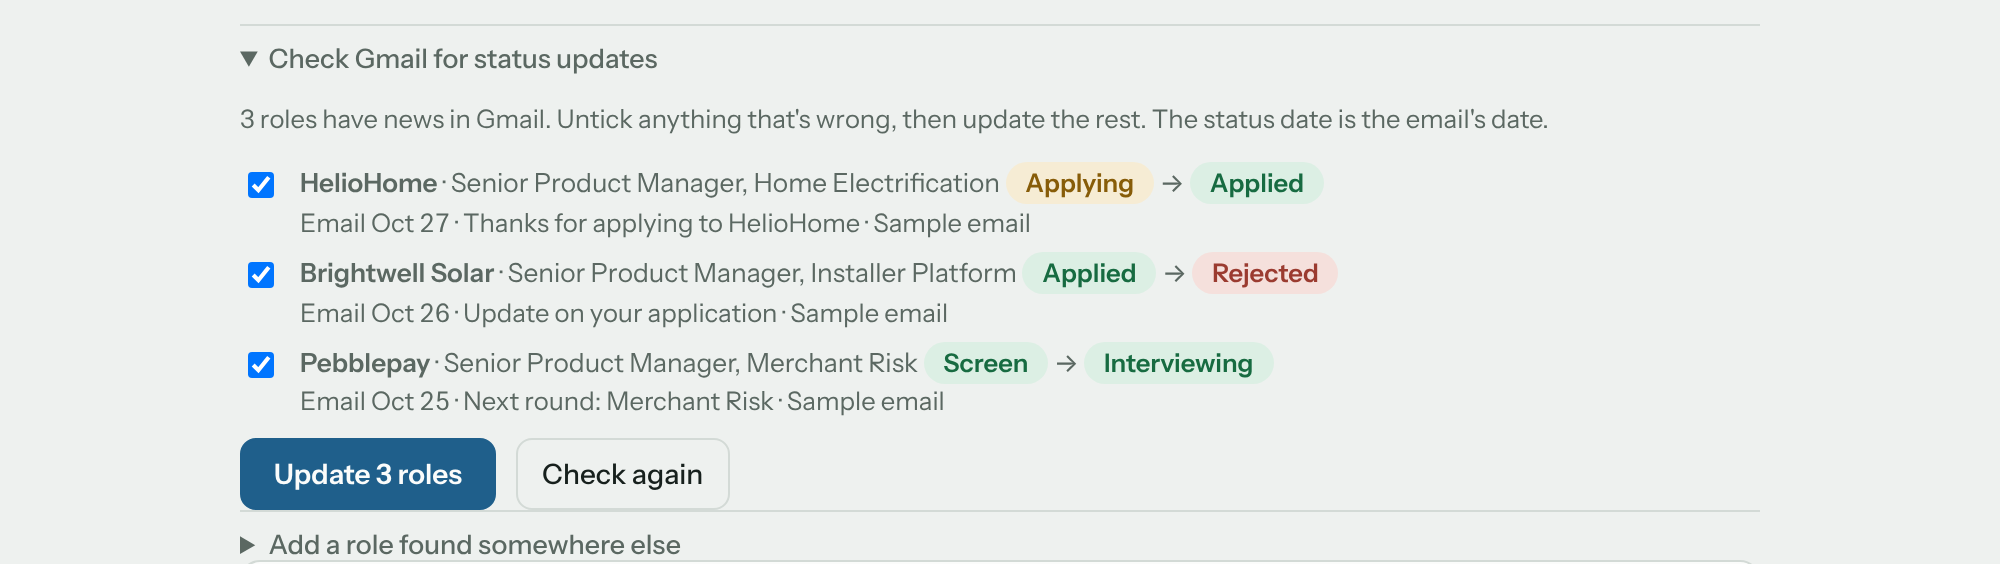
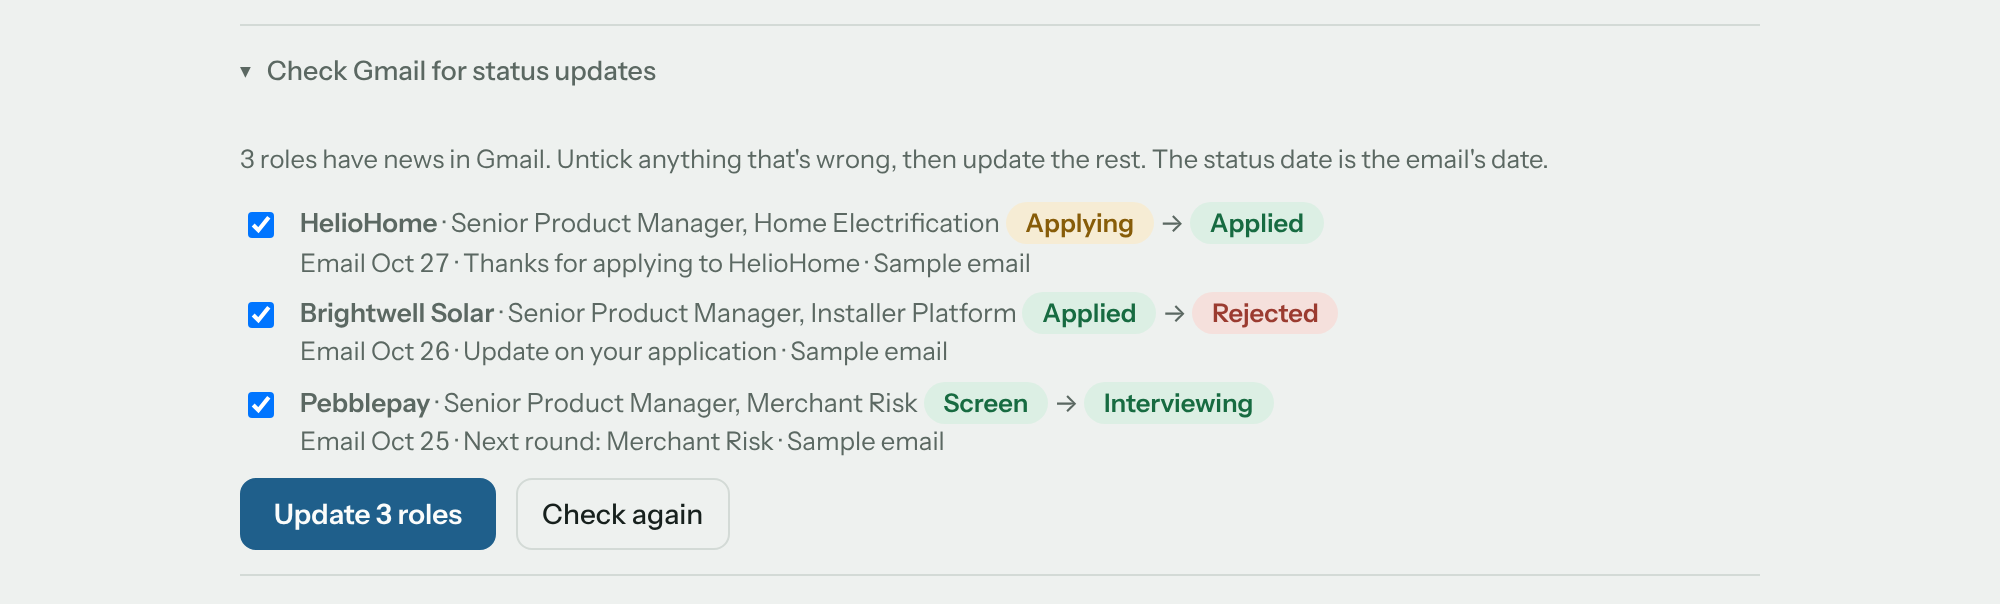
RR-M3.3: UI polish round 2 (folded filters, one accent action, first-run guidance)
Claude-Session: https://claude.ai/code/session_01S2xZTupe2qe2vZrkJ8z2XQ

diff --git a/app/role-radar.html b/app/role-radar.html
@@ -64,6 +64,7 @@ button:focus-visible,input:focus-visible,select:focus-visible,textarea:focus-vis
 .empty{border:1px dashed var(--line);border-radius:10px;padding:22px 18px;color:var(--muted);display:grid;gap:6px}
 .empty strong{color:var(--ink);font-family:var(--f-display);font-weight:500;font-size:1.05rem}
 .empty .btn{justify-self:start}
+.empty.error{border:1px solid var(--bad);background:var(--bad-soft)}
 .sub.stale{color:var(--warn)}
 .row{display:flex;justify-content:space-between;align-items:center;gap:10px;padding:10px 0;border-bottom:1px solid var(--line);min-width:0}
 .row .nm{font-weight:600}
@@ -90,7 +91,6 @@ textarea{min-height:64px;resize:vertical}
 .toast{position:fixed;left:50%;transform:translateX(-50%);bottom:calc(18px + env(safe-area-inset-bottom,0px));background:var(--ink);color:var(--bg);padding:8px 14px;border-radius:8px;font-size:.88rem}
 .search{width:100%;box-sizing:border-box}
 .apply-row{display:flex;flex-wrap:wrap;align-items:center;gap:8px 12px;padding-top:2px}
-.apply:not(.cta){color:var(--accent);border-color:var(--accent)}
 .resume{font:500 .86rem var(--f-body);color:var(--accent);text-decoration:none;min-width:0;overflow-wrap:anywhere}
 .resume:hover{text-decoration:underline}
 .hint{font-size:.8rem;color:var(--muted)}
@@ -108,8 +108,8 @@ dialog .row2{display:flex;gap:8px;justify-content:flex-end;margin-top:10px;flex-
 @media (max-width:600px){#tabs{position:static;flex-wrap:nowrap;overflow-x:auto;scroll-snap-type:x proximity;padding:6px 16px;margin-inline:-16px;scroll-padding-inline:16px}}
 /* Phones: a shorter header so the first role title lands on the first screen. */
 @media (max-width:600px){h1{font-size:1.6rem}.wrap{padding-top:12px;gap:12px}header{gap:4px}.lede{font-size:.95rem}}
-@media (max-width:600px){#ftoggle{display:inline-flex}.fbar:not(.open) .fields{display:none}}
-.showcase-mode #ftoggle{display:inline-flex}.showcase-mode .fbar:not(.open) .fields{display:none}
+/* Filters fold behind one button at every width, so the first role is never pushed below the fold (RR-UX4-1). */
+#ftoggle{display:inline-flex}.fbar:not(.open) .fields{display:none}
 /* Touch: every control at least 44px tall. */
 @media (max-width:600px), (pointer:coarse){#tabs button,.btn,button,select,input:not([type=checkbox]):not([type=radio]){min-height:44px}a.btn{display:inline-flex;align-items:center}summary{padding-block:14px}.kv a{display:inline-flex;align-items:center;min-height:44px}.sub .linkbtn,.hint .linkbtn{min-height:44px;display:inline-block;padding-block:12px;margin-block:-12px;line-height:20px;vertical-align:baseline}}
 .fbar .foot{display:flex;justify-content:space-between;align-items:center;gap:10px;flex-wrap:wrap;font-size:.82rem;color:var(--muted)}
@@ -173,6 +173,8 @@ dialog .row2{display:flex;gap:8px;justify-content:flex-end;margin-top:10px;flex-
 details.more{border-top:1px solid var(--line);padding-top:8px}
 details.more summary{cursor:pointer;font:500 .84rem var(--f-body);color:var(--muted)}
 details.more form{display:grid;gap:10px;padding-top:10px}
+/* Section rows above a list (Check Gmail, Add a role): 44px targets, 12px before the first card. */
+#view>details.more{padding-top:0;margin-bottom:12px}#view>details.more>summary{min-height:44px;box-sizing:border-box;display:flex;align-items:center;gap:8px}#view>details.more>summary::before{content:"\25B8";font-size:.8em}#view>details.more[open]>summary::before{content:"\25BE"}#view>details.more>summary::-webkit-details-marker{display:none}#view>details.more>summary{list-style:none}
 .st-applied,.st-screen,.st-interviewing{background:var(--good-soft);color:var(--good)}
 .st-offer{background:var(--good);color:var(--surface)}
 .st-applying{background:var(--warn-soft);color:var(--warn)}
@@ -202,6 +204,7 @@ details.more form{display:grid;gap:10px;padding-top:10px}
 .fitr .k{display:flex;gap:6px;align-items:baseline;white-space:nowrap}
 .fitr .k small{font:600 .8rem var(--f-body);color:var(--muted);min-width:4.4em}
 .fitr .r{color:var(--muted);min-width:0;overflow-wrap:anywhere}
+@media (max-width:480px){.fitr{grid-template-columns:minmax(0,1fr);gap:2px}.fitr .r{margin-bottom:4px}}
 .rate{font:600 .8rem/1.3 var(--f-body);padding:1px 8px;border-radius:999px;border:1px solid transparent}
 .r-great{background:var(--good);color:var(--surface)}
 .r-good{background:var(--good-soft);color:var(--good)}
@@ -218,7 +221,9 @@ details.more form{display:grid;gap:10px;padding-top:10px}
 .rec .who{font-family:var(--f-display);font-weight:500;font-size:1.08rem;margin:2px 0 0}
 .rec .next{display:flex;flex-wrap:wrap;gap:6px 10px;align-items:center;font-size:.9rem}
 .rec .next b{font-weight:600}
-.why-score{font:400 .78rem var(--f-mono);color:var(--muted)}
+.why-score{font:400 .72rem/1.45 var(--f-mono);color:var(--muted)}
+.why-score span{white-space:nowrap}
+.dream-note{font:500 .8rem var(--f-body);color:var(--good);margin:0}
 .demo{font:600 .72rem var(--f-body);letter-spacing:.05em;text-transform:uppercase;padding:3px 8px;border-radius:999px;background:var(--warn-soft);color:var(--warn);justify-self:start}
 .dig{display:grid;gap:6px;margin:0;padding:0;list-style:none}
 .dig li{display:grid;grid-template-columns:auto minmax(0,1fr);gap:2px 10px;align-items:baseline}
@@ -446,7 +451,10 @@ function scoreLine(j){
   if(!SC||!specData) return "";
   const r=SC.scoreJob(j,specData);
   const differs=typeof j.score==="number"&&j.score!==r.score;
-  return `<div class="why-score" title="Score from your criteria">${esc(SC.explain(r))} = ${r.score}${r.dream?` · dream role: ${esc(r.dream.why)}${r.dream.check?` (check: ${esc(r.dream.check)})`:""}`:""}${differs?` · scan said ${esc(j.score)} (it also reads the posting)`:""}</div>`;
+  // Segments wrap whole ("45 sector +" never splits), so the math stays one or two short lines on a phone.
+  const parts=String(SC.explain(r)).split(/ (?=[+−-] )/).map((x,i,a)=>`<span>${esc(x)}${i===a.length-1?` = ${r.score}`:""}</span>`).join(" ");
+  const dream=r.dream?`<p class="dream-note">Dream role: ${esc(r.dream.why)}${r.dream.check?` (check: ${esc(r.dream.check)})`:""}</p>`:"";
+  return `<div class="why-score" title="Score from your criteria">${parts}${differs?` <span>· scan said ${esc(j.score)}</span>`:""}</div>${dream}`;
 }
 // Values and Culture badges: same rules as the scan and intake (criteria.yaml values_fit, culture_fit).
 const RATE_LABEL={great:"Great",good:"Good",neutral:"Neutral",maybe:"Maybe",no:"No",unrated:"Unrated"};
@@ -614,7 +622,9 @@ function renderJobs(){
       pipeline:["Nothing in the pipeline","Save a role, or tap Apply, and it moves here. Add roles found elsewhere above."],
       action:["Nothing needs you right now",(TOOLS?"Follow-ups due, stale applications and unsent resumes show up here.":"Follow-ups due and stale applications show up here.")],
       all:["No roles yet","After the first scan runs, every match it finds is listed here."]}[tab];
-    body=`<div class="empty"><strong>${msg[0]}</strong><span>${msg[1]}</span></div>`;
+    const noCrit=!base.length&&tab==="inbox"&&!(criteria&&criteria.spec);
+    body=noCrit?`<div class="empty"><strong>Set your criteria first</strong><span>The morning scan scores roles against your criteria. Add them and new matches show up here.</span><button class="btn cta" type="button" data-tab="criteria">Open Criteria</button></div>`
+      :`<div class="empty"><strong>${msg[0]}</strong><span>${msg[1]}</span></div>`;
   } else body=`<div class="list">${list.map(jobCard).join("")}</div>`;
   return {html:head+body,shown:list.length,total:base.length};
 }
@@ -913,7 +923,7 @@ function renderCriteria(){
       ${critErr?`<p class="err" id="critErr" role="alert" style="scroll-margin-top:16px">${esc(critErr)}</p>`:""}
       <label for="critText" class="sr" style="position:absolute;left:-9999px">Criteria YAML</label>
       <textarea id="critText" class="code" spellcheck="false" autocapitalize="off" autocomplete="off" placeholder="version: 2"${critErr?` aria-invalid="true" aria-describedby="critErr"`:""}></textarea>
-      <div class="ctl"><button class="primary" type="submit">Save criteria</button>${exampleCriteria()?`<button class="btn" type="button" id="critExample">Start from the example</button>`:""}${critDraft!==null?`<button class="btn" type="button" id="critReset">Discard changes</button>`:""}</div>
+      <div class="ctl"><button class="btn" type="submit" id="critSave">Save criteria</button>${exampleCriteria()?`<button class="btn cta" type="button" id="critExample">Start from the example</button>`:""}${critDraft!==null?`<button class="btn" type="button" id="critReset">Discard changes</button>`:""}</div>
     </form></div>`;
   // While a draft is broken or was blocked, the summary keeps showing what is saved, so nothing looks wiped.
   const shown=critErr||p.err?parseSpec((criteria&&criteria.spec)||"").data:p.data;
@@ -1071,7 +1081,7 @@ function renderProgressTab(){
 // Tabs built from the jobs collection: they wait for its first read instead of looking empty.
 const JOB_TABS=["inbox","pipeline","action","ruled","progress","all"];
 function loadState(){
-  if(jobsState==="error") return `<div class="empty" role="alert"><strong>Couldn't load your roles</strong><span>Nothing was lost. The tracker couldn't read your data just now. Reload to try again.</span><button class="btn" type="button" id="reloadPage">Reload</button></div>`;
+  if(jobsState==="error") return `<div class="empty error" role="alert"><strong>Couldn't load your roles</strong><span>Nothing was lost. The tracker couldn't read your data just now. Reload to try again.</span><button class="btn cta" type="button" id="reloadPage">Reload</button></div>`;
   return `<div class="empty" role="status" aria-busy="true"><strong>Loading your roles…</strong></div>`;
 }
 function render(){
@@ -1285,7 +1295,7 @@ document.addEventListener("change",async e=>{
   const f=e.target.closest("#fbar [data-v]");
   if(f){ view[f.dataset.v]=f.value; saveView(); render(); }
 });
-document.addEventListener("input",e=>{ if(e.target.id==="critText"){critDraft=e.target.value; clearTimeout(digestPreview._t); digestPreview._t=setTimeout(()=>{const spec=parseSpec(critDraft).data, el=$("#digestPreview"), al=$("#alertsPreview"); if(el) el.innerHTML=digestPreview(spec); if(al) al.innerHTML=alertsPreview(spec);},250); return;} if(e.target.id==="q"){view.q=e.target.value; saveView(); const pos=e.target.selectionStart; render(); const el=$("#q"); if(el){el.focus(); el.setSelectionRange(pos,pos);} }});
+document.addEventListener("input",e=>{ if(e.target.id==="critText"){critDraft=e.target.value; const has=!!critDraft.trim(); $("#critSave")?.classList.toggle("cta",has); $("#critExample")?.classList.toggle("cta",!has); clearTimeout(digestPreview._t); digestPreview._t=setTimeout(()=>{const spec=parseSpec(critDraft).data, el=$("#digestPreview"), al=$("#alertsPreview"); if(el) el.innerHTML=digestPreview(spec); if(al) al.innerHTML=alertsPreview(spec);},250); return;} if(e.target.id==="q"){view.q=e.target.value; saveView(); const pos=e.target.selectionStart; render(); const el=$("#q"); if(el){el.focus(); el.setSelectionRange(pos,pos);} }});
 document.addEventListener("submit",async e=>{
   e.preventDefault(); if(!db) return;
   const sk=e.target.closest("form[data-skipform]");

diff --git a/HANDOFF.md b/HANDOFF.md
@@ -105,13 +105,13 @@ _Updated 2026-10-24._
 ## In progress
 - 2026-10-28 release plan RR-M3 (night run, Chase's 7 phases; plan in PLAN.md "M3"). Stacked draft PRs from `claude/project-thread-6wmh2k-m3-1` on top of #40 (#40 contains #39), with main merged in. M3.1 (PR #42): PLAN.md brought up to date (M2.4-M2.6, M3).
 - RR-M3.2 works for real (`claude/project-thread-6wmh2k-m3-2`, stacked on #42): 11 tests in `tests/works-for-real.test.mjs`, red first. (1) An empty tracker shows the criteria editor with "Start from the example" (the repo's `criteria.yaml` is embedded in the page; `tests/example-criteria.test.mjs` keeps them in sync). (2) "Scan hasn't run since …" when the last scan is 2+ weekdays old (`scanStale` in `src/progress.js`, New York time). (3) Job tabs show "Loading your roles…" until the first read and a "Couldn't load your roles" alert with Reload on a read error, never an empty tracker; failed reads log only the collection name. (4) Adding a role or company that's already tracked changes nothing and says so (a vetoed company stays vetoed). Demo mock gains test-only `?fail=jobs` and `?hold=jobs`. 229 tests, green 3x. No new supporting file.
-- RR-M3.3 UI to 8/10 (`claude/project-thread-6wmh2k-m3-3`, stacked on M3.2), round 1: ux-reviewer 5/10 before (390: 4.5, 1280: 5.5), 6.5/10 after. `tests/ui-polish.test.mjs` RR-UX3-1..7, red first: score is a 48px tile top-right; phone tabs are one scrolling row (still not sticky) so the first card is above the fold; full-width phone titles; one filled primary action per card (`.btn.cta`); aligned Values/Culture rows; accent links; 16px body and one sentence-case label style. README screenshots regenerated. 236 tests, green 3x. Round 2 (RR-UX4-1..6 P1s) in progress on the same branch.
+- RR-M3.3 UI to 8/10 (`claude/project-thread-6wmh2k-m3-3`, stacked on M3.2), round 1: ux-reviewer 5/10 before (390: 4.5, 1280: 5.5), 6.5/10 after. `tests/ui-polish.test.mjs` RR-UX3-1..7, red first: score is a 48px tile top-right; phone tabs are one scrolling row (still not sticky) so the first card is above the fold; full-width phone titles; one filled primary action per card (`.btn.cta`); aligned Values/Culture rows; accent links; 16px body and one sentence-case label style. README screenshots regenerated. 236 tests, green 3x. Round 2: RR-UX4-1..8 red first, then fixed: filters fold behind the toggle at every width (supersedes the old "wide screen shows filters" test, rewritten to the new rule), 44px Pipeline section rows, phone fit reasons on their own line, at most one accent action per card, "Start from the example" primary on an empty editor, "Open Criteria" on a first-run New tab, compact score math, a solid error card with a filled Reload. 244 tests, green 3x. Screenshots regenerated.
 - Night shift 2026-10-23 (hardening), draft PR #31: done and marked ready. Round 3 review found nothing at P2 or above (one P2 leftover also fixed: dates and pay inside sentences now use the body font). 127 tests, green 3x.
 - Power hour (Chase, 2026-10-22): PRs #20-#25 (recruiter-ready) and #16 (dream-role anchors, 93/93 tests on the merge) are merged to main. PR #18 (job description preview) merged 2026-10-23 after bringing main in; live page republished with `posting.js` the same day.
 - Public demo: merged (PR #17), repo renamed to `role-radar`, redeployed, Pages green after #25. Waiting on a phone check of the live URL and https, and on the portfolio repoint (intake with Chase).
 
 ## Exact next step
-- RR-M3: M3.3 round 2: fix RR-UX4-1..6 (Pipeline filters collapsed on desktop, 44px details rows, phone Values/Culture reason on its own line, one primary per Pipeline state, example button primary on empty criteria, first-run "Open Criteria"), then ux-reviewer again. Then M3.4 CI (drafts ready). Waiting on Chase: `republish` (live page lacks the culture gate and the M3 fixes) and `scan on` (the weekday scan is off).
+- RR-M3: ux-reviewer scores round 2, then M3.4 (ci.yml, Pages gated on CI, dependabot, badge, privacy-security). Waiting on Chase: `republish` (live page lacks the culture gate and the M3 fixes) and `scan on` (the weekday scan is off).
 - Skip feedback (this branch): Chase merges PR #39 then this PR. A session republishes the live page with the new supporting file `skip-feedback.js` (plus `scoring.js`, `gmail-import.js`, `posting.js`, `alerts.js`, `progress.js`, `recruiter-store.js`) and `capabilities` = `app/capabilities.json`. Then the scan owner copies the SKIP FEEDBACK step from `scan/scan-prompt.template.md` into the private scan prompt. Intake skill: an intake No's `skipNote` is now required (it already writes one).
 - Progress tab (this branch): Chase merges, then a session republishes the live page with the new supporting file `progress.js` (plus the existing five) and `capabilities` = `app/capabilities.json`. Then backfill `skippedBy: "rule"` on the live skips from the Oct 26 criteria cleanup (14 of 17 live skips, per the family-email thread) so the header and email stop counting them. Intake skill: an intake No should also write `skippedBy: "owner"` (unset already counts as owner, so this is optional).
 - Studio refresh: Chase merges the PR. From then on every PR here needs an `Agents:` line (code changes name qa-tdd), or agents-check fails.
@@ -133,6 +133,7 @@ _Updated 2026-10-24._
 - The live page is `app/role-radar.html` published with `src/scoring.js`, `src/gmail-import.js`, `src/posting.js`, `src/alerts.js`, `src/progress.js`, `src/skip-feedback.js` and (from RR-M2.4) `src/recruiter-store.js` as supporting files of the same names, and `capabilities` = `app/capabilities.json` (never `{db: {}}`, which drops the owner-only rule).
 
 ## Decisions to review
+- RR-UX4-1: filters now fold behind the Filters button on desktop too (they pushed the first role below the fold). Reversible in one CSS line.
 - RR-M3.2: adding a company that's already on the watchlist is refused too (saving it again would reset its board health). The embedded example criteria make the page ~220 lines longer.
 - `check:private` with the private denylist flags the GitHub owner name in 4 files that came from the studio refresh (#41). It's the public repo owner, not personal data; consider narrowing that denylist entry to the email form.
 - Skip feedback: the comment is required (Chase asked for "a chip and a comment"); an intake No already writes one. Thresholds are deliberately low (2 skips for company, title, culture and comp; 3 for a sector) over a 30-day window, and every suggestion waits for Chase to accept and save. Culture suggestions go to the soft `red_flags` (-10), never `hard_red_flags`. The scan only marks look-alike roles in the fit note, it never lowers a score from skips. "Not now" is permanent; to bring one back, remove its id from `meta/skipFeedback.dismissed`.
